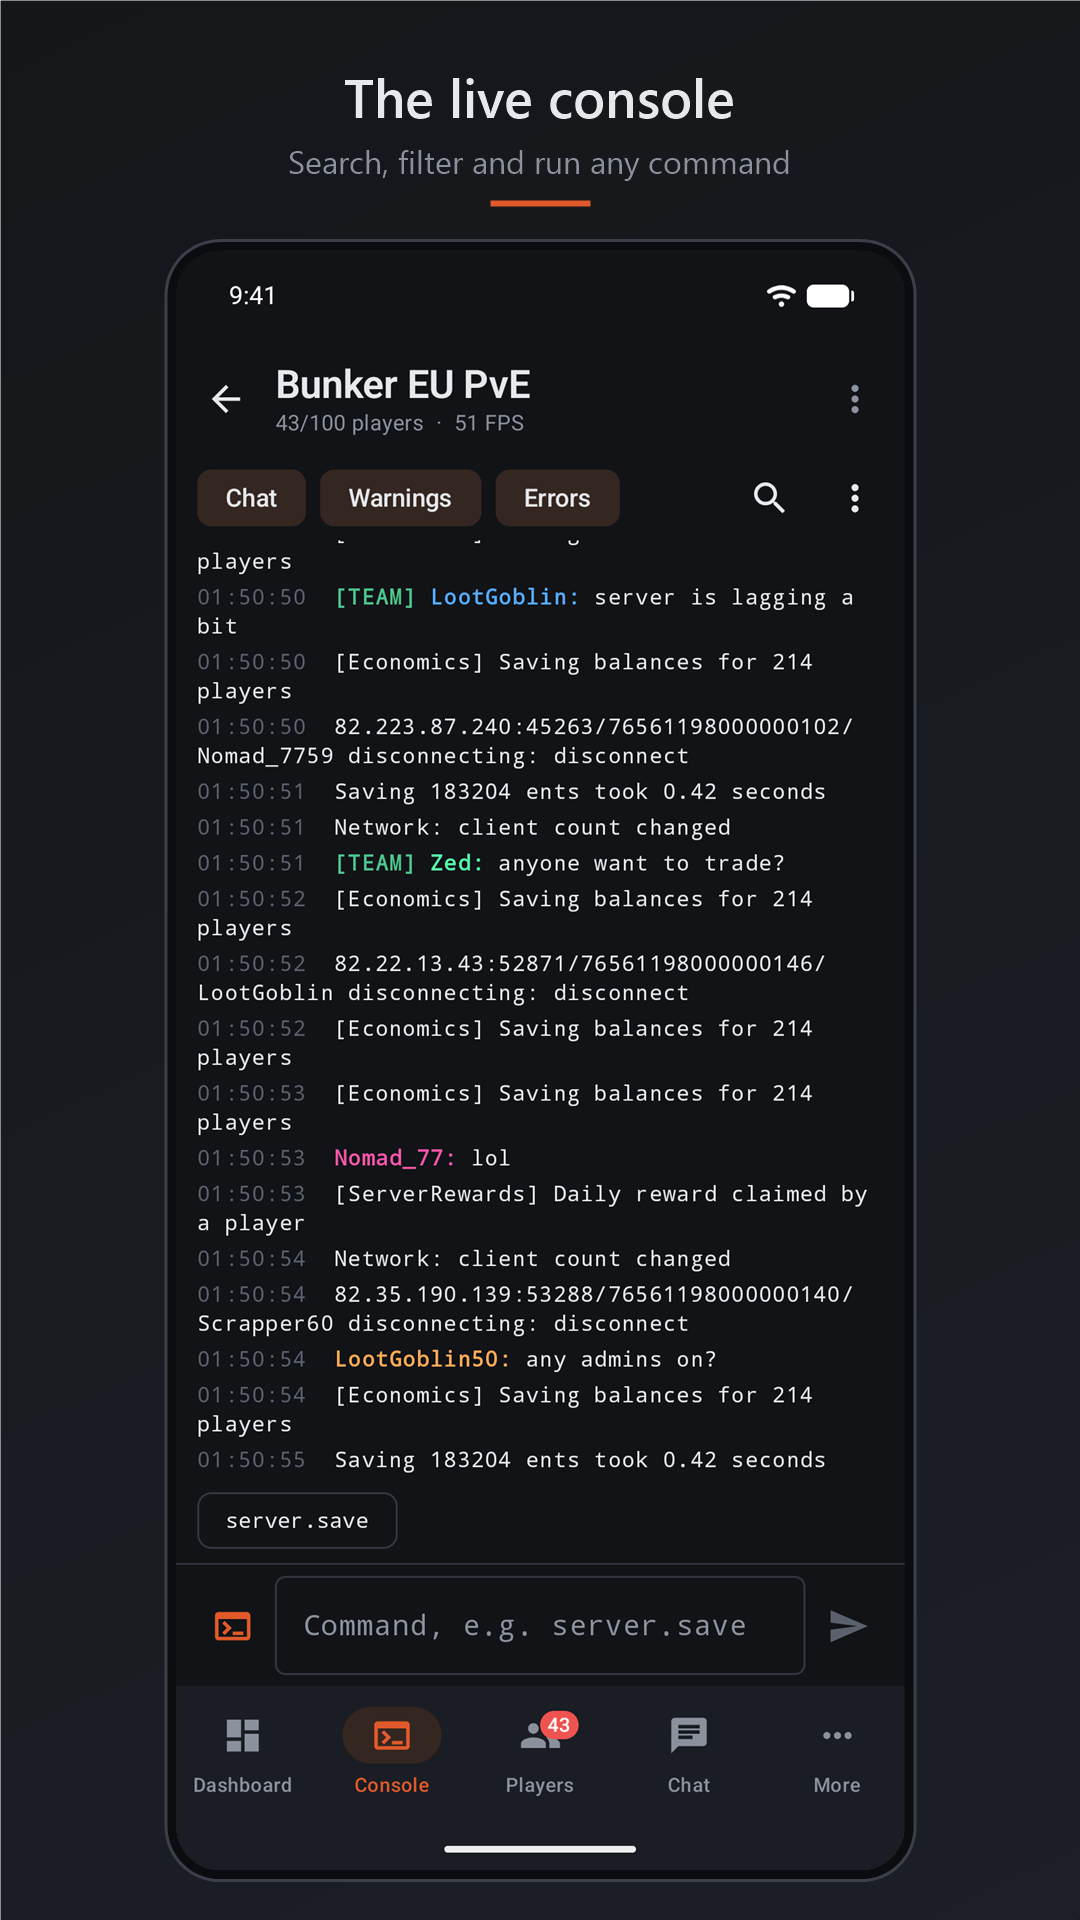
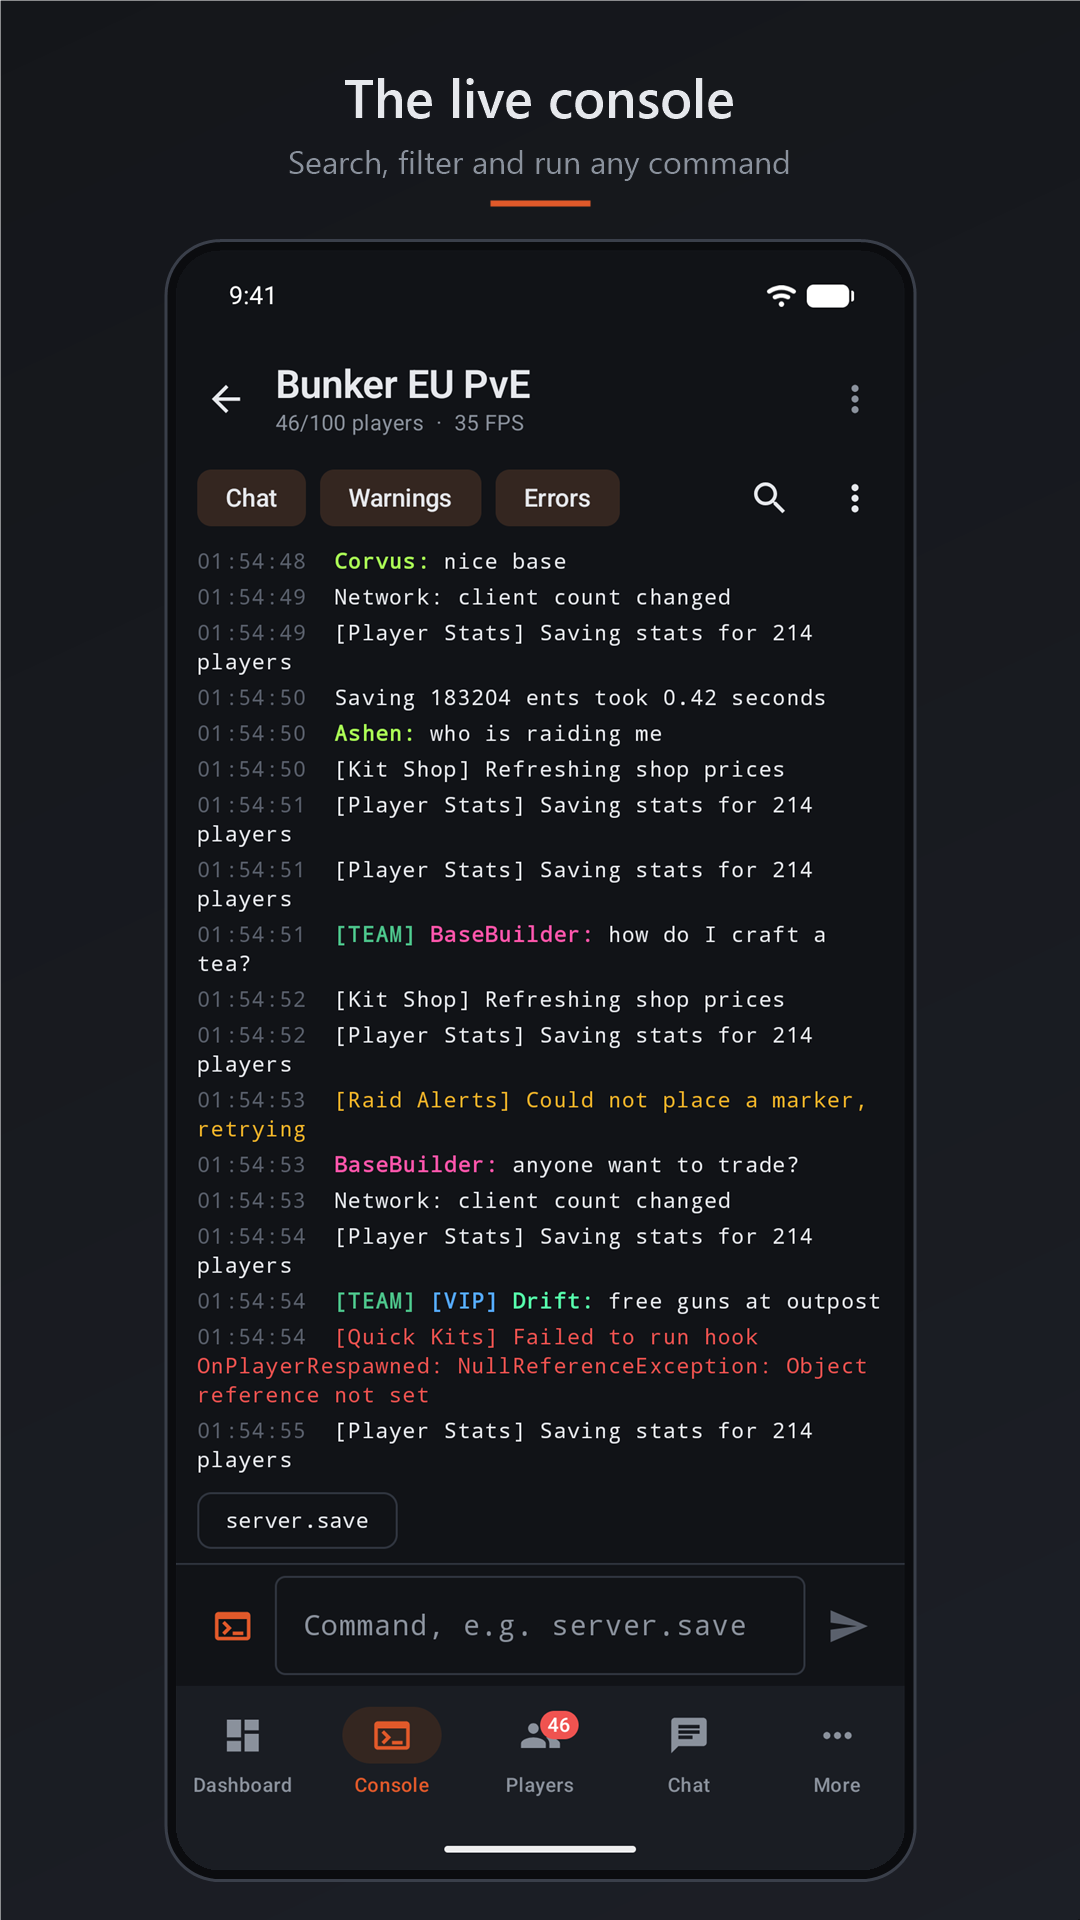
Store images: one consistent cast, with made-up player names, plugins and authors
The screenshots mixed names: the chat showed people who were not in the player list, some names
were duplicated, and the plugin list used real plugins and their authors. The test server now has
a roster of unique made-up names, a --static mode where nobody joins or leaves and only players at
the top of the A-Z list chat, console lines tagged with made-up plugins, and a plugin sample with
made-up plugins and authors (the real Carbon reply stays only as the parser's test data).

Changed region(s): [[0.1833, 0.2812, 0.7944, 0.7812]]

diff --git a/tools/mock-rcon-server.js b/tools/mock-rcon-server.js
@@ -1,7 +1,7 @@
 #!/usr/bin/env node
 // A pretend Rust WebRCON server for testing Bunker without a real game server. No dependencies.
 //
-//   node tools/mock-rcon-server.js [--port 28016] [--password test] [--name "My Server"] [--players 6] [--joining 1] [--noplugin] [--fast]
+//   node tools/mock-rcon-server.js [--port 28016] [--password test] [--name "My Server"] [--players 6] [--joining 1] [--static] [--noplugin] [--fast]
 //
 // From the Android emulator the host PC is 10.0.2.2, so add a server with address 10.0.2.2, port 28016, password "test".
 // It answers serverinfo / playerlist / banlistex and common admin commands, sends console noise and chat,
@@ -16,6 +16,7 @@ const PORT = parseInt(arg('port', '28016'), 10);
 const PASSWORD = arg('password', 'test');
 const NO_PLUGIN = flag('noplugin');
 const FAST = flag('fast');
+const STATIC = flag('static');   // nobody joins or leaves, and only the players at the top of an A-Z list chat (tidy screenshots)
 const START_PLAYERS = parseInt(arg('players', '6'), 10);   // how many players are online at the start
 const JOINING = parseInt(arg('joining', '-1'), 10);       // -1 = random, otherwise always this many joining
 const NAME = arg('name', 'Bunker Test Server [PVE x2]');
@@ -23,7 +24,7 @@ const fs = require('fs');
 const path = require('path');
 
 const started = Date.now();
-const names = ['Scrapper', 'Nomad_77', 'LootGoblin', 'xX_Raider_Xx', 'Wolfie', 'BaseBuilder', 'Sulfur Sam', 'OilRigOllie', 'Medic', 'Zed', 'Pixel', 'Hatchet Harry'];
+const names = ['Ironclad', 'RustLord', 'Scrapper', 'Nomad', 'LootGoblin', 'BaseBuilder', 'Hatchet Harry', 'Sulfur Sam', 'OilRigOllie', 'Medic', 'Zed', 'Pixel', 'Wolfie', 'xX_Raider_Xx', 'Cobalt', 'Mariner', 'Vex', 'Tundra', 'Ashen', 'Kestrel', 'Rook', 'Dune', 'Halcyon', 'Marauder', 'Thorn', 'Cinder', 'Banshee', 'Atlas', 'Grizzly', 'Nova', 'Onyx', 'Phantom', 'Quill', 'Riot', 'Saber', 'Talon', 'Umbra', 'Vandal', 'Warden', 'Yeti', 'Zephyr', 'Bramble', 'Corvus', 'Drift', 'Ember', 'Fable', 'Gale', 'Havoc', 'Jinx', 'Kodiak', 'Lynx', 'Mako', 'Nimbus', 'Orion', 'Piston', 'Quartz', 'Raven', 'Sprocket', 'Tinker', 'Anvil', 'Bishop', 'Cadence'];
 const colours = ['#5af', '#fa5', '#af5', '#f5a', '#a5f', '#5fa', '#ddd'];
 let nextSteam = 76561198000000100n;
 const players = [];
@@ -32,8 +33,14 @@ let maxPlayers = 100;
 let timeHour = 12;
 const clients = new Set();
 
+// A name nobody online is using. Rare fallback once the roster is used up.
+function freeName() {
+  const free = names.filter(n => !players.some(p => p.DisplayName === n));
+  if (free.length) return free[STATIC ? 0 : Math.floor(Math.random() * free.length)];
+  return names[rand(names.length)] + '_' + (10 + rand(90));
+}
 function addPlayer(name) {
-  const p = { SteamID: String(nextSteam++), DisplayName: name || names[Math.floor(Math.random() * names.length)] + (Math.random() < 0.5 ? '' : Math.floor(Math.random() * 99)), Ping: 20 + Math.floor(Math.random() * 120), Address: `82.${rand(255)}.${rand(255)}.${rand(255)}:${40000 + rand(20000)}`, ConnectedSeconds: 0, Health: 40 + Math.random() * 60, joined: Date.now(), colour: colours[rand(colours.length)] };
+  const p = { SteamID: String(nextSteam++), DisplayName: name || freeName(), Ping: 20 + Math.floor(Math.random() * 120), Address: `82.${rand(255)}.${rand(255)}.${rand(255)}:${40000 + rand(20000)}`, ConnectedSeconds: 0, Health: 40 + Math.random() * 60, joined: Date.now(), colour: colours[rand(colours.length)] };
   players.push(p);
   return p;
 }
@@ -151,25 +158,28 @@ server.on('upgrade', (req, socket) => {
 
 // ----------------------------------------------------------------------------------------------- pretend life
 const noise = [
-  ['Generic', '[Economics] Saving balances for 214 players'],
-  ['Generic', '[Economics] Saving balances for 214 players'],
-  ['Generic', '[Steam Groups] Refreshing group membership'],
+  ['Generic', '[Player Stats] Saving stats for 214 players'],
+  ['Generic', '[Player Stats] Saving stats for 214 players'],
+  ['Generic', '[Kit Shop] Refreshing shop prices'],
   ['Generic', 'Saving 183204 ents took 0.42 seconds'],
-  ['Generic', '[ServerRewards] Daily reward claimed by a player'],
-  ['Warning', '[Raidable Bases] Failed to find a spawn point, retrying'],
+  ['Generic', '[Loot Booster] Daily bonus claimed by a player'],
+  ['Warning', '[Raid Alerts] Could not place a marker, retrying'],
   ['Warning', 'Calling ent.ServerInit took 13ms'],
-  ['Error', '[Kits] Failed to run hook OnPlayerRespawned: NullReferenceException: Object reference not set'],
+  ['Error', '[Quick Kits] Failed to run hook OnPlayerRespawned: NullReferenceException: Object reference not set'],
   ['Generic', 'Network: client count changed'],
 ];
 const every = (ms, fn) => setInterval(fn, FAST ? Math.max(500, ms / 5) : ms);
 every(2500, () => { const [t, m] = noise[rand(noise.length)]; log(m, t); });
 every(9000, () => {
+  if (STATIC) return;
   if (players.length < maxPlayers && (Math.random() < 0.55 || players.length < 3)) { const p = addPlayer(); log(`${p.Address}/${p.SteamID}/${p.DisplayName} joined [windows/${p.SteamID}]`); }
   else if (players.length > 2) { const p = players.splice(rand(players.length), 1)[0]; log(`${p.Address}/${p.SteamID}/${p.DisplayName} disconnecting: disconnect`); }
 });
-const lines = ['anyone want to trade?', 'who is raiding me', 'GG', 'free guns at outpost', 'how do I craft a tea?', 'lol', 'server is lagging a bit', 'any admins on?', 'nice base'];
+const lines = ['anyone want to trade?', 'who is raiding me', 'GG', 'free guns at outpost', 'how do I craft a tea?', 'lol', 'server is lagging a bit', 'any admins on?', 'nice base', 'need scrap, paying in wood', 'anyone near launch site?', 'team up for oil rig?', 'base at G12, come say hi', 'ok that was close', 'thanks for the help earlier', 'heli incoming!', 'selling ak, 400 scrap', 'who has a spare furnace?'];
 every(7000, () => {
-  if (!players.length) return; const p = players[rand(players.length)];
+  if (!players.length) return;
+  const pool = STATIC ? [...players].sort((a, b) => a.DisplayName.toLowerCase().localeCompare(b.DisplayName.toLowerCase())).slice(0, 9) : players;
+  const p = pool[rand(pool.length)];
   const team = Math.random() < 0.15; const tag = Math.random() < 0.2 ? '[VIP] ' : '';
   chat(p.DisplayName, p.SteamID, tag ? `${tag}${p.DisplayName}: ${lines[rand(lines.length)]}` : lines[rand(lines.length)], p.colour, team ? 1 : 0);
 });

diff --git a/README.md b/README.md
@@ -211,7 +211,7 @@ cd Bunker-Android
 node tools/mock-rcon-server.js                       # port 28016, password "test"
 node tools/mock-rcon-server.js --port 28017 --name "US Vanilla"   # a second server for Multi Server
 node tools/mock-rcon-server.js --noplugin            # pretend the BunkerChat plugin is missing
-node tools/mock-rcon-server.js --players 40 --joining 1 --fast   # a busy server (handy for screenshots)
+node tools/mock-rcon-server.js --players 40 --joining 1 --static --fast   # a busy, steady server with made-up names and plugins (for screenshots)
 ```
 
 It answers `serverinfo`, `playerlist`, `banlistex`, a real Carbon plugin list and the common admin commands, sends console noise and chat, and makes players come and go. From the Android emulator the host PC is **`10.0.2.2`**, so add a server with address `10.0.2.2`, port `28016`, password `test`. A wrong password gets the socket closed at once, like Rust does.
